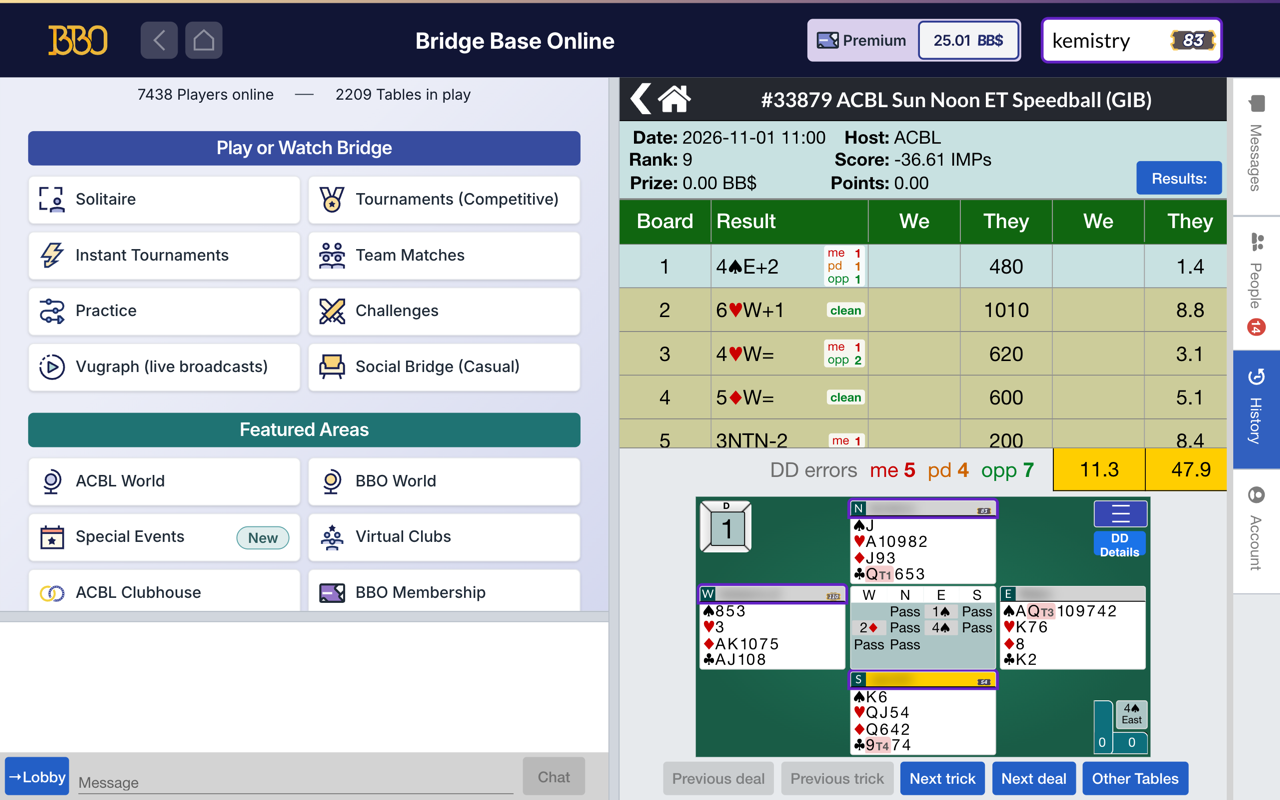
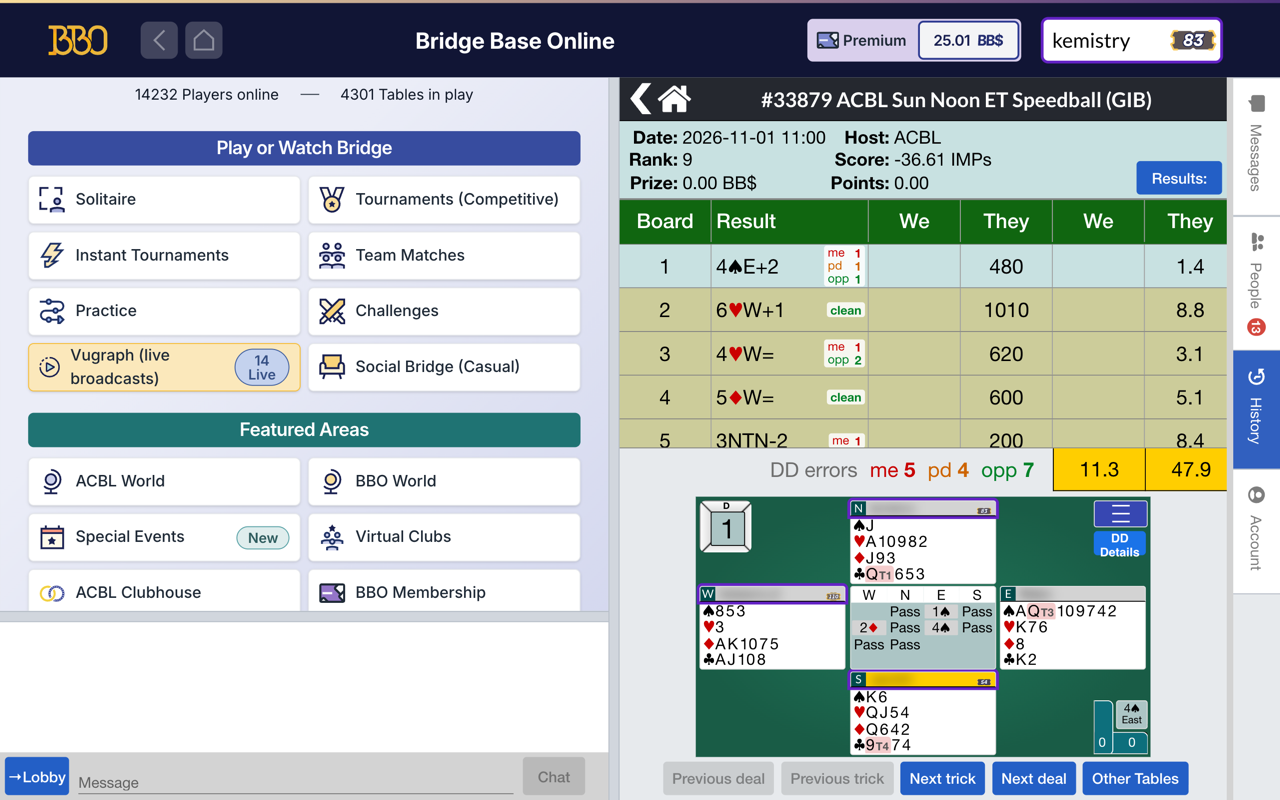
Show the DD tallies on the DD page

Changed region(s): [[0.0, 0.4062, 0.25, 0.5], [0.25, 0.0938, 0.375, 0.125], [0.0938, 0.0938, 0.2188, 0.125]]

diff --git a/site/dd/index.html b/site/dd/index.html
@@ -84,6 +84,10 @@ figcaption{font-size:13px;color:var(--color-text-secondary);margin-top:6px;line-
       <figcaption>Every board tagged, the event totalled, the error cards marked.</figcaption>
     </figure>
     <figure>
+      <img src="screenshots/dd-4-tallies.png" width="1280" height="800" loading="lazy" alt="BBO's Recent tournaments list with a DD column showing each event's errors as me-partner-opponents">
+      <figcaption>Every event&#8217;s errors, you-partner-opponents, beside its score.</figcaption>
+    </figure>
+    <figure>
       <img src="screenshots/dd-3-trick.png" width="1280" height="800" loading="lazy" alt="A trick on BBO's table with the lead and winner marked, and the erring hand's cards in green and red">
       <figcaption>Click an error to go to its trick and see the alternatives.</figcaption>
     </figure>
